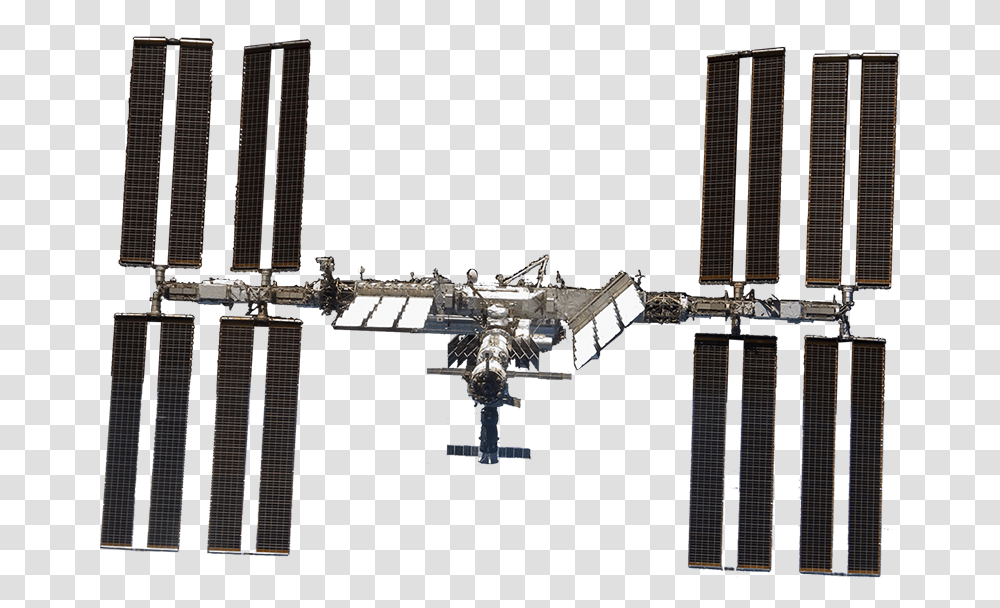
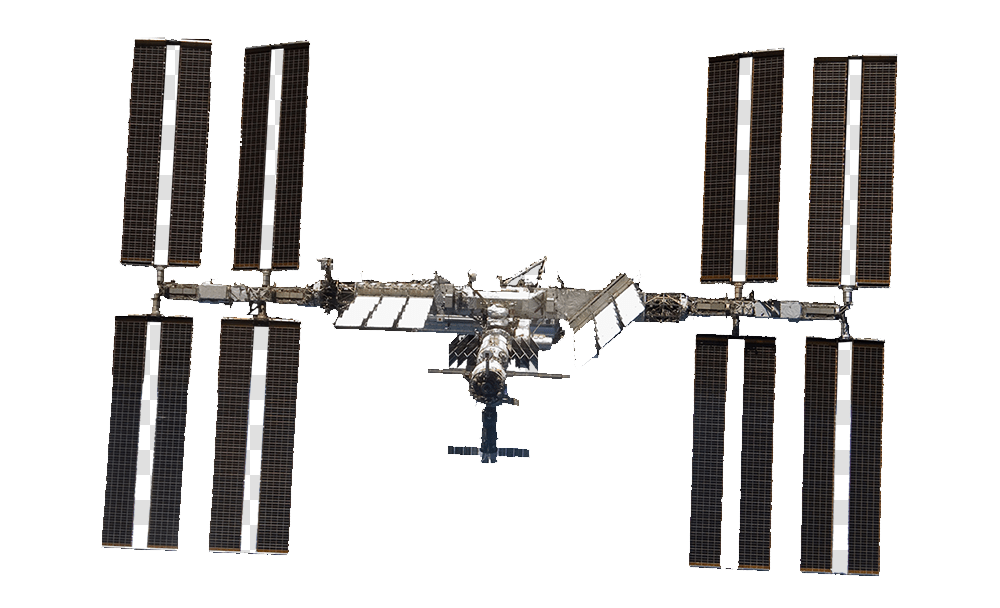
- Transparent Iss Img. - Update Iss Position. - NotificationBar.vue created and placed.

diff --git a/src/components/IssTracker.vue b/src/components/IssTracker.vue
@@ -2,8 +2,7 @@
   <div id="container">
     <div ref="map" id="map"></div>
     <div id="btn-menu">
-      <button class="btn" @click="getPosition">Refresh</button>
-      <button class="btn" @click="updatePosition">Refresh</button>
+      <button class="btn">Refresh</button>
     </div>
 
   </div>
@@ -32,6 +31,7 @@ export default {
   data: function() {
     return {
       map: null,
+      iss: null,
       latest: {
         "data": {
           "name": "iss",
@@ -83,26 +83,24 @@ export default {
         },
         "request": {}
       },
-      iss_icon: require('../assets/img/iss.png')
+      iss_icon: require('../assets/img/iss.png'),
+      updateIntervalId: null,
     }
   },
   methods: {
-    getPosition() {
+    updatePosition() {
       axios.get('https://api.wheretheiss.at/v1/satellites/25544')
           .then((res) => {
             this.latest = res;
-            this.updatePosition();
+            this.iss.setGeometry(new Point(fromLonLat([this.latest.data.longitude, this.latest.data.latitude])));
           })
           .catch((err) => {
             console.error(err);
           });
     },
-    updatePosition() {
-      console.log(this.map.layers);
-    }
   },
   mounted() {
-    const issIcon = new Feature({
+    this.iss = new Feature({
       geometry: new Point(fromLonLat([this.latest.data.longitude, this.latest.data.latitude])),
       name: 'ISS',
     });
@@ -115,7 +113,7 @@ export default {
           }),
           new VectorLayer({
             source: new VectorSource({
-              features: [issIcon]
+              features: [this.iss]
             }),
             style: new Style({
               image: new Icon({
@@ -123,7 +121,7 @@ export default {
                 src: this.iss_icon,
               })
             })
-          })
+          }),
       ],
       view: new View({
         zoom: 0,
@@ -131,6 +129,7 @@ export default {
         constrainResolution: true,
       })
     });
+    // this.updateIntervalId = setInterval(this.updatePosition,10000);
   }
 }
 </script>

diff --git a/src/App.vue b/src/App.vue
@@ -1,13 +1,17 @@
 <template>
   <iss-tracker></iss-tracker>
+  <notification-bar></notification-bar>
+
 </template>
 
 <script>
 import IssTracker from "@/components/IssTracker";
+import NotificationBar from "@/components/NotificationBar";
 
 export default {
   name: 'App',
   components: {
+    NotificationBar,
     IssTracker
   }
 }

diff --git a/src/components/NotificationBar.vue b/src/components/NotificationBar.vue
@@ -1,0 +1,21 @@
+<template>
+  <div id="card"></div>
+</template>
+
+<script>
+export default {
+  name: "NotificationBar"
+}
+</script>
+
+<style scoped>
+#card {
+  width: 50%;
+  height: 50px;
+  position: absolute;
+  bottom: 10px;
+  left: 50%;
+  transform: translateX(-50%);
+  background-color: black;
+}
+</style>
